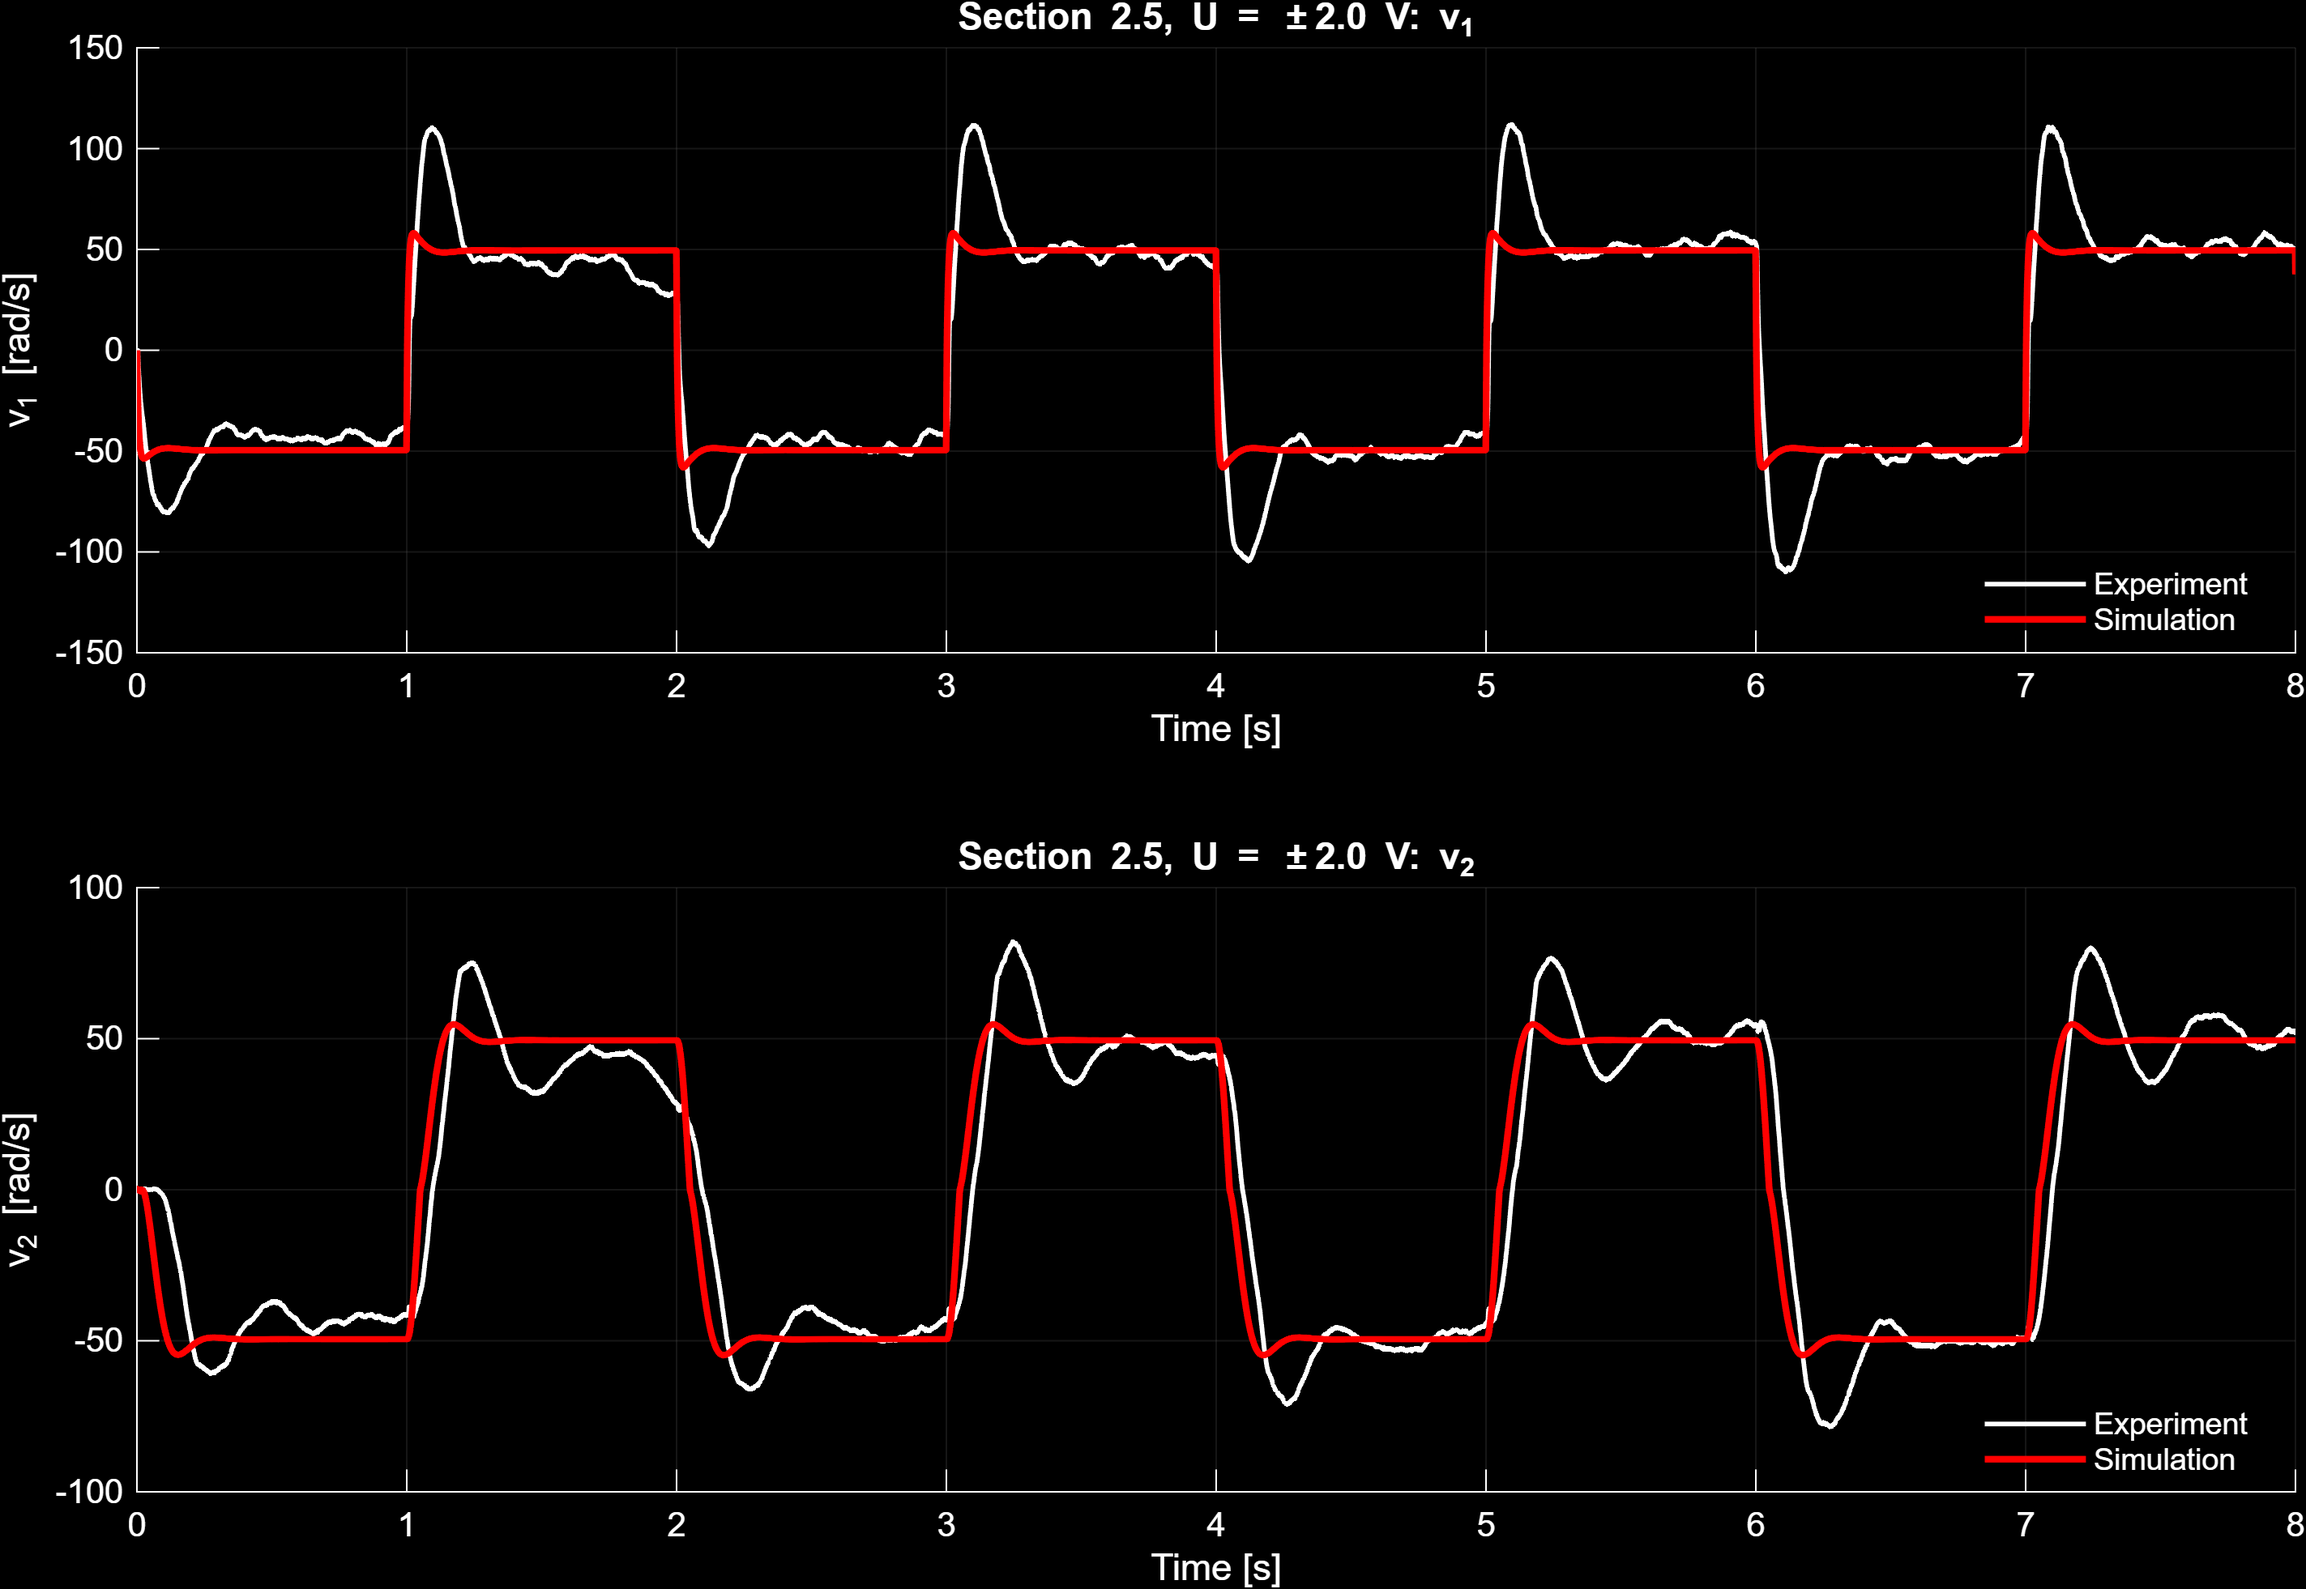
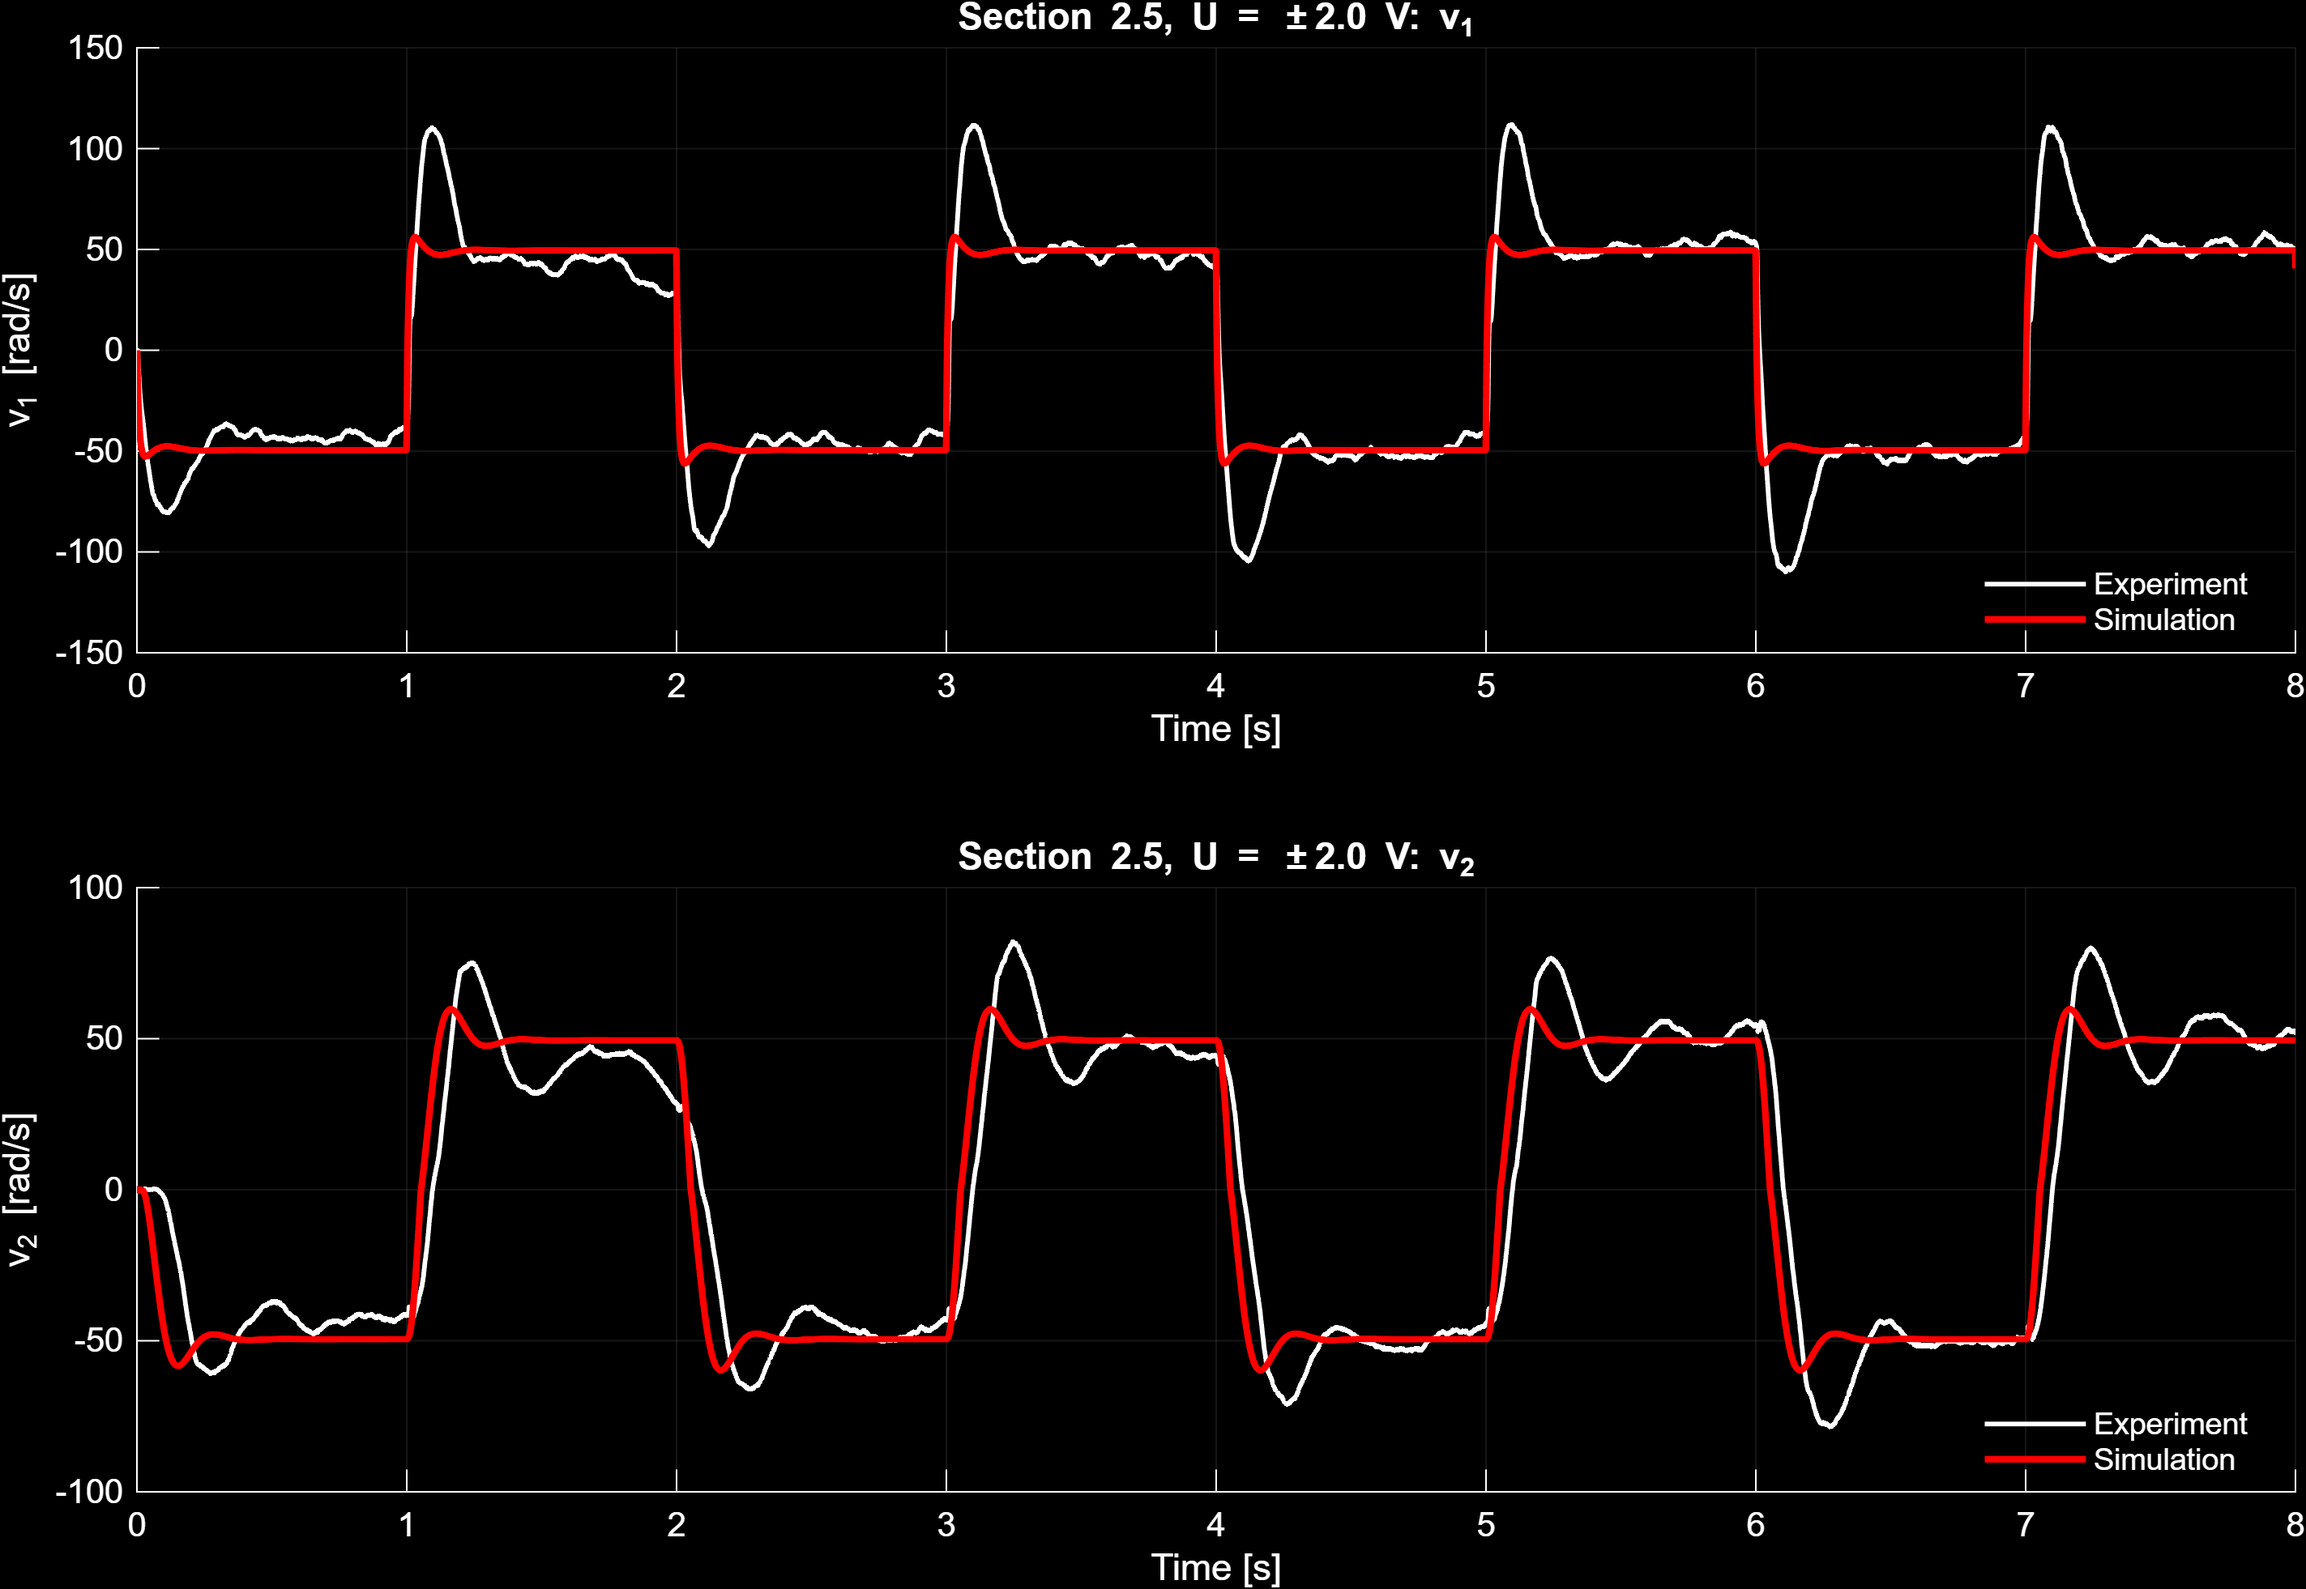
Update sim params

diff --git a/part_3_3.m b/part_3_3.m
@@ -61,10 +61,10 @@ b2      = 0.0027;
 dcoul_1 = 0.5051;       
 dcoul_2 = 0.0505;
 
-m1      = 0.00015955;   
-m2      = 0.00008515;
+m1      = 0.00021543;   
+m2      = 0.0001163;
 
-k       = 0.065;        
+k       = 0.076;        
 c       = 0.000;        
 
 
